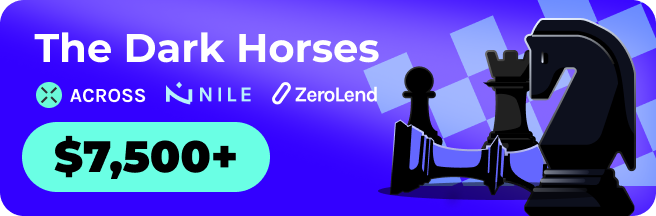
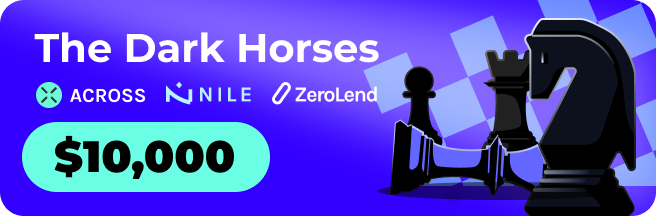
change ticket 3 image

Changed region(s): [[0.122, 0.6389, 0.3659, 0.8333]]

diff --git a/src/data/campaign.ts b/src/data/campaign.ts
@@ -94,10 +94,10 @@ export const CampaignData: { [campaignName: string]: Badge } = {
   },
   LineaLiquid2: {
     name: '',
-    value: '$7,500+',
+    value: '$10,000',
     icon: '',
     status: StatusType.ongoing,
-    tooltip: '$7,500 Total Rewards',
+    tooltip: '$10,000 Total Rewards',
     iconSize: 20,
     odyssey: [
       {
@@ -112,16 +112,16 @@ export const CampaignData: { [campaignName: string]: Badge } = {
         superBridgeBanner: '/images/campaign/linea-liquid-2/SuperBridge-linea-v2.png',
         superBridgeRoutes: ['Across'],
         link: '/campaign/home?category=linea-liquid-2',
-        badgeValue: '$7,500',
-        reward_value: '$7,500',
+        badgeValue: '$10,000',
+        reward_value: '$10,000',
         showSummary: false,
         reward:
-          '[{"name":"$ACROSS","value":"$7,500","logo_key":"ACROSS","tooltip":"$7,500 Total Rewards"},{"name":"$NILE","value":"$7,500","logo_key":"NILE","tooltip":"$7,500 Total Rewards"},{"name":"$ZEROLEND","value":"$7,500","logo_key":"ZEROLEND","tooltip":"$7,500 Total Rewards"}]',
+          '[{"name":"$ACROSS","value":"$10,000","logo_key":"ACROSS","tooltip":"$10,000 Total Rewards"},{"name":"$NILE","value":"$10,000","logo_key":"NILE","tooltip":"$10,000 Total Rewards"},{"name":"$ZEROLEND","value":"$10,000","logo_key":"ZEROLEND","tooltip":"$10,000 Total Rewards"}]',
         video: '/videos/campaign/dapDapTales-1.mp4',
         dapp: [
           '/images/campaign/dapp/across.png',
-          '/images/campaign/dapp/nile.png',
-          '/images/campaign/dapp/zerolend.png'
+          'https://assets.dapdap.net/images/nile-1.png',
+          'https://assets.dapdap.net/images/zerolend.png'
         ],
         category: 'linea-liquid-2'
       }
@@ -149,5 +149,6 @@ export const CampaignDAppData: { [dappName: string]: Badge[] } = {
   'Lynex Lock': [CampaignData.LineaLiquid],
   Across: [CampaignData.LineaLiquid2],
   ZeroLend: [CampaignData.LineaLiquid2],
-  Nile: [CampaignData.LineaLiquid2]
+  Nile: [CampaignData.LineaLiquid2],
+  'Nile Liquidity': [CampaignData.LineaLiquid2]
 };

diff --git a/src/views/Campaign/LineaLiquid2/Task/index.tsx b/src/views/Campaign/LineaLiquid2/Task/index.tsx
@@ -201,7 +201,7 @@ export default function Task({ category }: Props) {
               <div className="desc-item">
                 <div className="desc-text">
                   <div className="desc-action-wrapper">
-                    <div className="title">Swap ($ZERO,$NILE)</div>
+                    <div className="title">Swap ($NILE, &#20;$ZERO)</div>
                     <TicketAction showPengding={false} ticket={swapData?.total_spins} refresh={() => getData(true)} />
                   </div>
 
@@ -223,16 +223,16 @@ export default function Task({ category }: Props) {
                 <div className="float-btn">
                   <div>
                     <TradeBtn
-                      style={{ width: 150, right: 160 }}
-                      innerStyle={{ paddingRight: 20 }}
+                      style={{ width: 150 }}
+                      innerStyle={{ paddingRight: 30 }}
                       text="Trade $ZERO"
                       onClick={() => {
                         setShowSwapModal(1);
                       }}
                     />
                     <TradeBtn
-                      style={{ width: 150 }}
-                      innerStyle={{ paddingRight: 30 }}
+                      style={{ width: 150, right: 160 }}
+                      innerStyle={{ paddingRight: 20 }}
                       text="Trade $NILE"
                       onClick={() => {
                         setShowSwapModal(2);

diff --git a/src/views/Campaign/LineaLiquid/Task/index.tsx b/src/views/Campaign/LineaLiquid/Task/index.tsx
@@ -426,7 +426,7 @@ export default function Task({ category }: Props) {
       <div style={{ height: 20 }}></div>
       <TaskItem
         icon="/images/odyssey/lineaLiquid/union-icon-2.svg"
-        title="Supply/Borrow on Linea with"
+        title="Lend/Borrow on Linea with"
         typeText="Mendi"
         typeColor="#00B0EB"
         ticket={lendingData?.total_spins || 0}
@@ -440,7 +440,7 @@ export default function Task({ category }: Props) {
                 <div className="desc-list">
                   <ul>
                     <li>
-                      <span className="sep">Earn 5 tickets</span> for each supplying or borrowing transaction ({'>'}
+                      <span className="sep">Earn 5 tickets</span> for each lending or borrowing transaction ({'>'}
                       $25).
                     </li>
                     <li>

diff --git a/src/views/Odyssey/components/Reward/index.tsx b/src/views/Odyssey/components/Reward/index.tsx
@@ -28,9 +28,7 @@ const RewardList = ({ odyssey }: { odyssey: any }) => {
       <StyledTagItemInner className={`reward ${odyssey.status === StatusType.ongoing ? 'tag-active' : 'tag-default'}`}>
         <div className="reward-text">
           {formatValue(rewards[0]?.value)}
-          {odyssey.tag === 'tales' &&
-            (odyssey.category === 'linea-liquid' || odyssey.category === 'linea-liquid-2') &&
-            '+'}
+          {odyssey.tag === 'tales' && odyssey.category === 'linea-liquid' && '+'}
           {!(
             odyssey.tag === 'tales' &&
             (odyssey.category === 'linea-liquid' || odyssey.category === 'linea-liquid-2')

diff --git a/src/components/BridgeX/Index.tsx b/src/components/BridgeX/Index.tsx
@@ -497,9 +497,9 @@ export default function BridgeX({
 
               if (maxRoute.feeType === 1) {
                 feeCostUSD = (prices[chainFrom.nativeCurrency.symbol] * maxRoute.fee).toString();
-              } else if (maxRoute.gasType === 2) {
+              } else if (maxRoute.feeType === 2) {
                 feeCostUSD = maxRoute.fee;
-              } else if (maxRoute.gasType === -1) {
+              } else if (maxRoute.feeType === -1) {
                 feeCostUSD = (prices[selectInputToken.symbol] * maxRoute.fee).toString();
               }
 

diff --git a/src/views/Home/components/Tooltip/Odyssey.tsx b/src/views/Home/components/Tooltip/Odyssey.tsx
@@ -61,7 +61,7 @@ const OdysseyCard = (props: Props) => {
             <StyledValue>
               {formatValue(rewardValue || reward?.value)}
               {/* only for linea-liquid activity + */}
-              {isCampaign && (category === 'linea-liquid' || category === 'linea-liquid-2') && '+'}
+              {isCampaign && category === 'linea-liquid' && '+'}
               {!(isCampaign && (category === 'linea-liquid' || category === 'linea-liquid-2')) && (
                 <span> {reward?.name}</span>
               )}

diff --git a/src/views/Dapp/components/DappDetail/RelativeOdyssey/Card.tsx b/src/views/Dapp/components/DappDetail/RelativeOdyssey/Card.tsx
@@ -338,7 +338,7 @@ const OdysseyCardComponent = (props: Props) => {
                     >
                       {/* TODO */}
                       {badges[0].value}
-                      {id < 0 ? '+' : ' ' + badges[0].name.toUpperCase()}
+                      {id === -3 ? '' : id < 0 ? '+' : ' ' + badges[0].name.toUpperCase()}
                     </div>
                   </SimpleTooltip>
                   {badges.filter((it: any) => !!it.icon).length > 0 && (

diff --git a/src/views/OdysseyV8/RewardIcons.ts b/src/views/OdysseyV8/RewardIcons.ts
@@ -68,11 +68,11 @@ export default {
     label: 'LYNX'
   },
   NILE: {
-    icon: '/images/campaign/dapp/nile.png',
+    icon: 'https://assets.dapdap.net/images/nile-1.png',
     label: 'LYNX'
   },
   ZEROLEND: {
-    icon: '/images/campaign/dapp/zerolend.png',
+    icon: 'https://assets.dapdap.net/images/zerolend.png',
     label: 'LYNX'
   }
 } as any;
